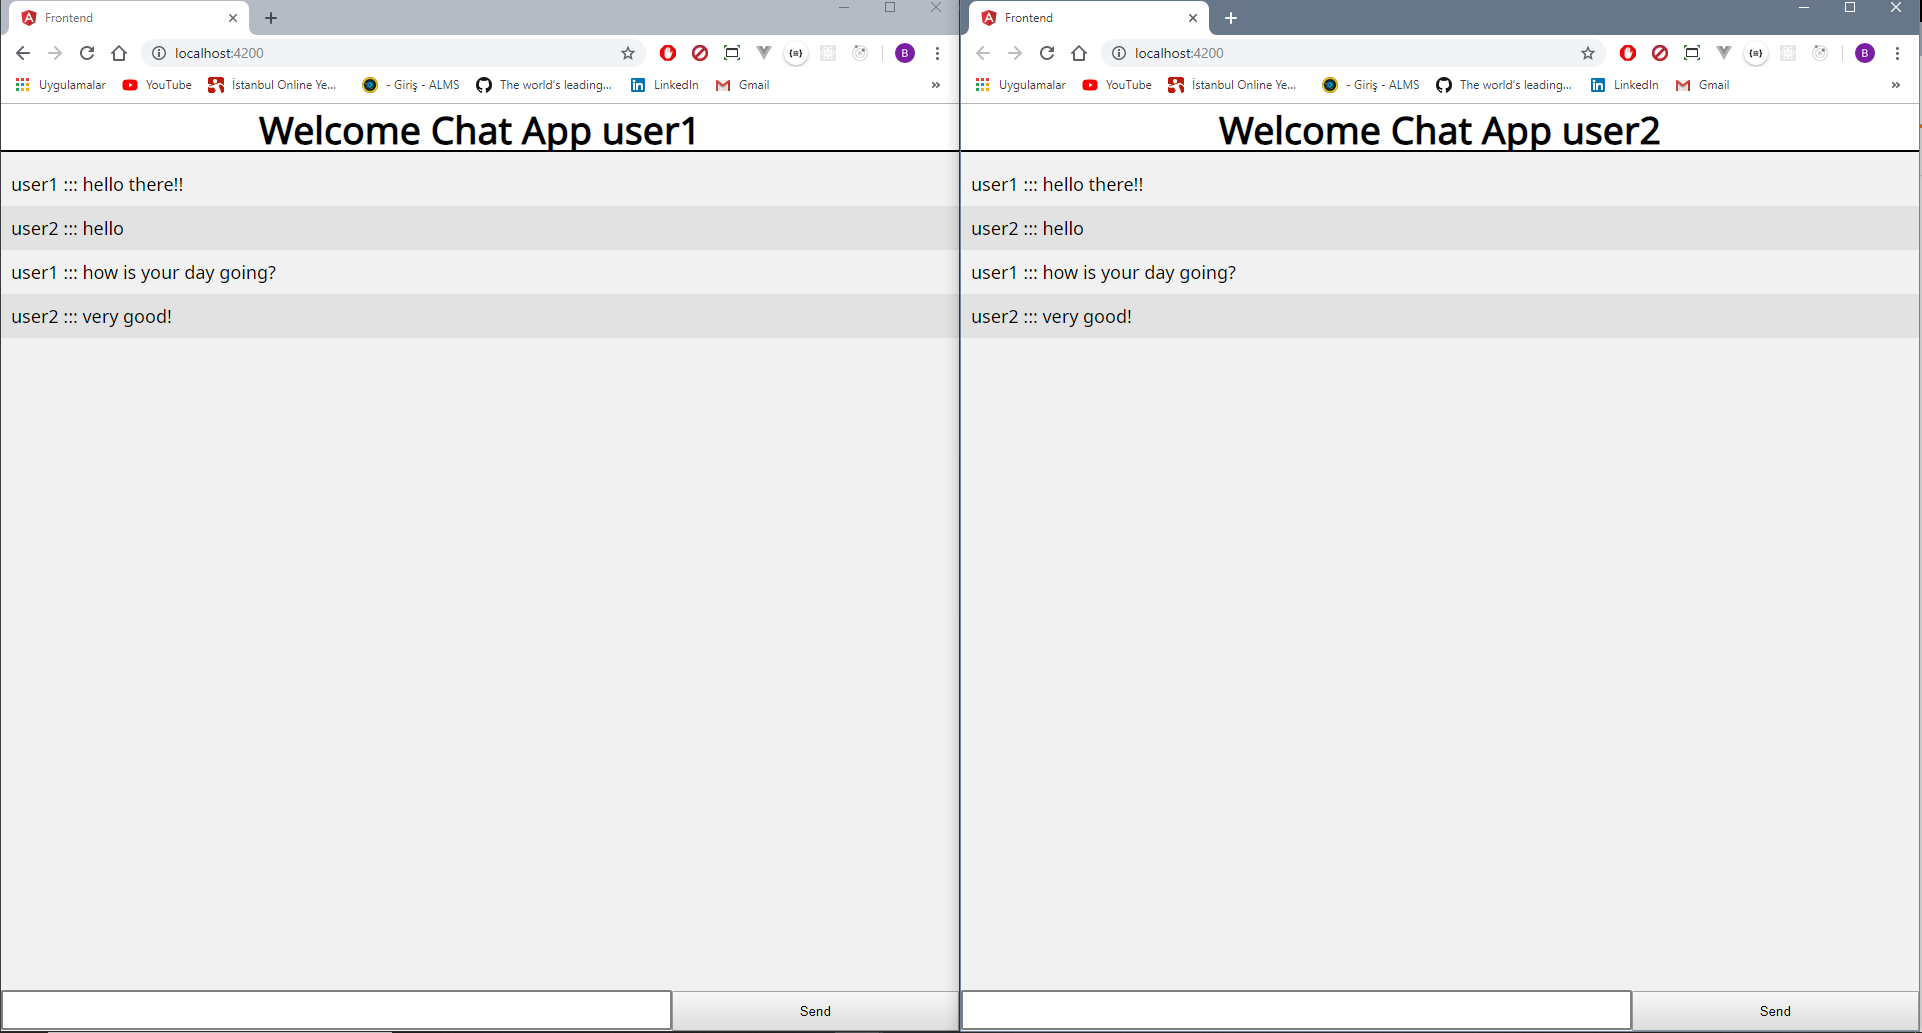
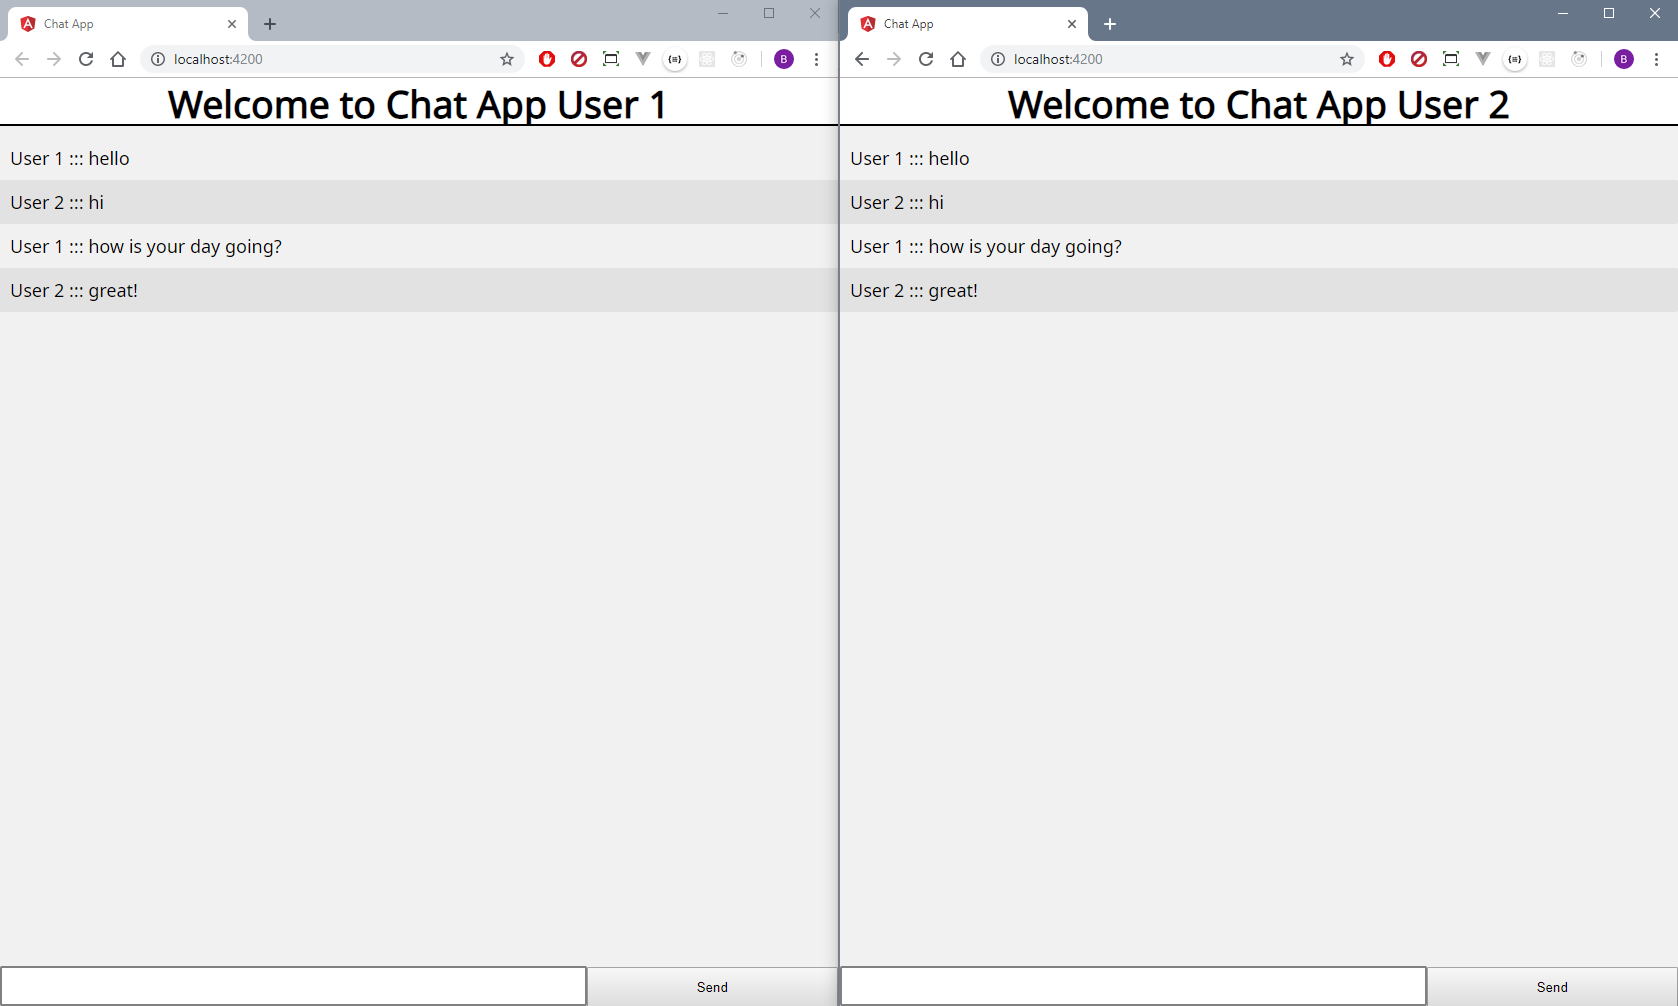
fixed text content

Changed region(s): [[0.0, 0.0, 1.0, 1.0]]

diff --git a/frontend/src/index.html b/frontend/src/index.html
@@ -2,7 +2,7 @@
 <html lang="en">
 <head>
   <meta charset="utf-8">
-  <title>Frontend</title>
+  <title>Chat App</title>
   <base href="/">
 
   <meta name="viewport" content="width=device-width, initial-scale=1">

diff --git a/frontend/src/app/app.component.html b/frontend/src/app/app.component.html
@@ -1,5 +1,5 @@
 <header>
-  <h2>Welcome Chat App {{username}}</h2>
+  <h2>Welcome to Chat App {{username}}</h2>
 </header>
 <div class="chat-app">
   <div class="messages">
